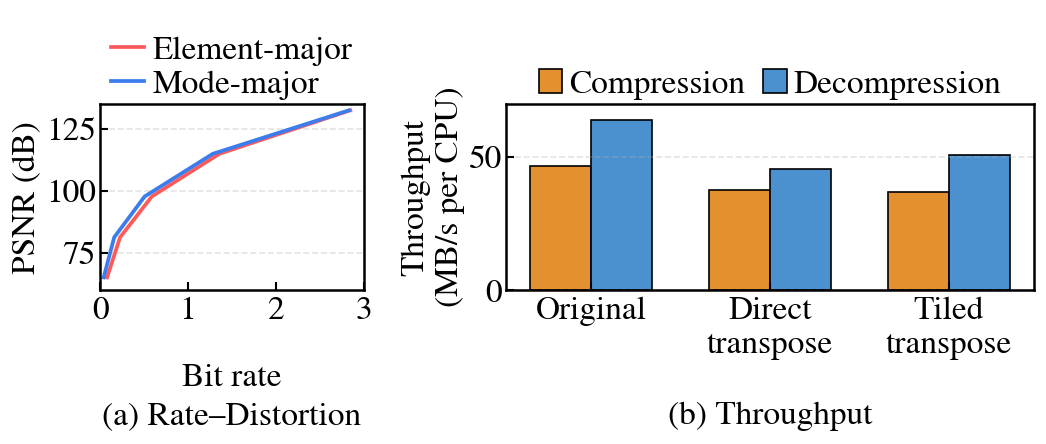
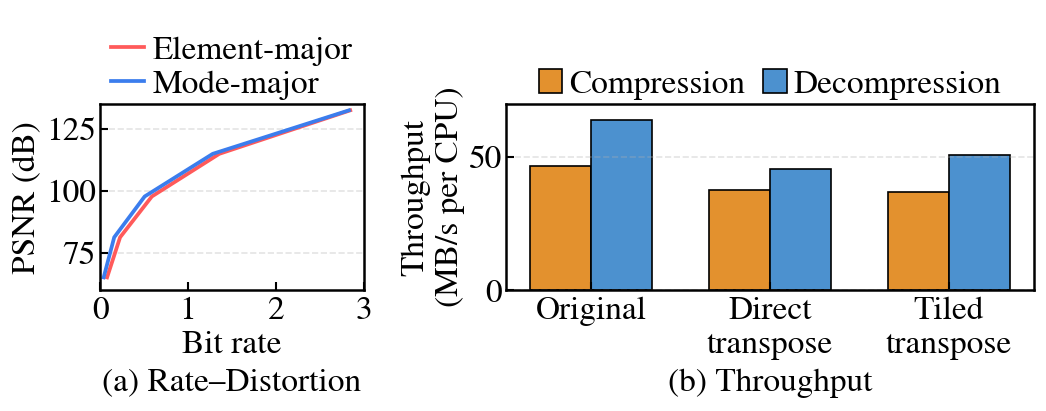
Tighten Figure 10 bottom labels

diff --git a/py_funcs/plot_mrcz_reordering_ablation.py b/py_funcs/plot_mrcz_reordering_ablation.py
@@ -5,7 +5,7 @@ import matplotlib
 matplotlib.use("Agg")
 import numpy as np
 from matplotlib import pyplot as plt
-from plot_style import PaperFigureSpec,add_panel_captions,align_xlabels,apply_paper_style,layout_panel_row,legend_above,panel_aspect_ratios,save_paper_png_vertical_crop,style_plot_axis
+from plot_style import PaperFigureSpec,add_panel_captions,apply_paper_style,layout_panel_row,legend_above,panel_aspect_ratios,save_paper_png_vertical_crop,style_plot_axis
 
 DEFAULT_ROOT="results/mrcz_reordering"
 DEFAULT_OUTPUT="论文/figs/6/mrcz-reordering-ablation.png"
@@ -116,8 +116,9 @@ def main():
     layout_panel_row(fig,axes,PLOT_ASPECT_RATIOS,bottom_pt=BOTTOM_PT,panel_gap_pt=PANEL_GAP_PT,left_edge_gap_pt=LEFT_EDGE_GAP_PT,right_edge_gap_pt=RIGHT_EDGE_GAP_PT)
     legend_above(rd_ax,rd_legend_handles,rd_legend_labels,ncol=1,frameon=False,handlelength=1.0,handletextpad=0.25)
     legend_above(throughput_ax,throughput_legend_handles,throughput_legend_labels,ncol=2,frameon=False,handlelength=0.7,handletextpad=0.2,columnspacing=0.55)
-    align_xlabels(fig,axes,gap_pt=X_LABEL_GAP_PT)
-    add_panel_captions(fig,axes,["(a) Rate–Distortion","(b) Throughput"],gap_pt=PANEL_CAPTION_GAP_PT)
+    captions=add_panel_captions(fig,[rd_ax],["(a) Rate–Distortion"],gap_pt=PANEL_CAPTION_GAP_PT,source="xlabel")+add_panel_captions(fig,[throughput_ax],["(b) Throughput"],gap_pt=PANEL_CAPTION_GAP_PT,source="ticks")
+    caption_y=min(caption.get_position()[1] for caption in captions)
+    for caption in captions:caption.set_y(caption_y)
     os.makedirs(os.path.dirname(args.output) or ".",exist_ok=True)
     save_paper_png_vertical_crop(fig,args.output,spec,edge_gap_pt=VERTICAL_EDGE_GAP_PT)
     plt.close(fig)
